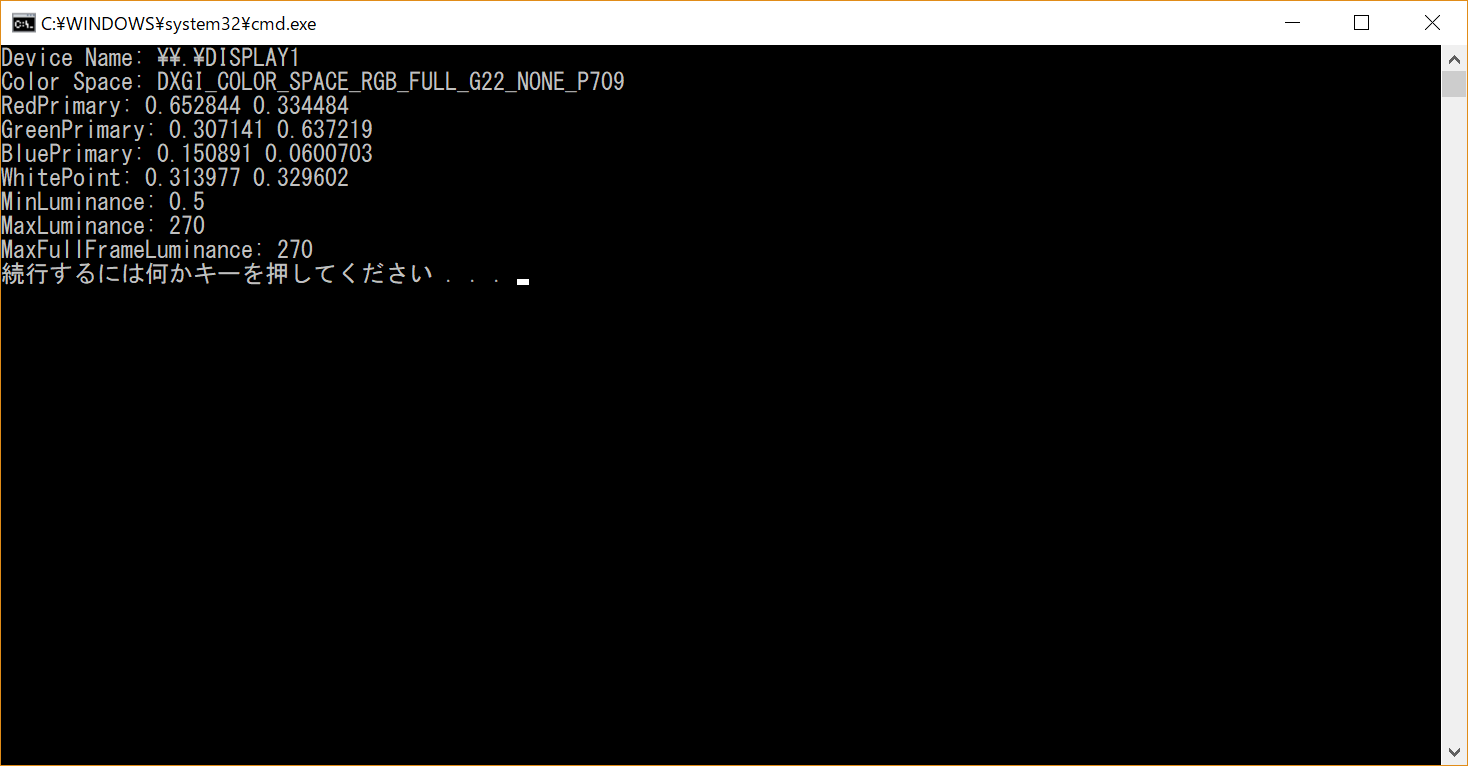
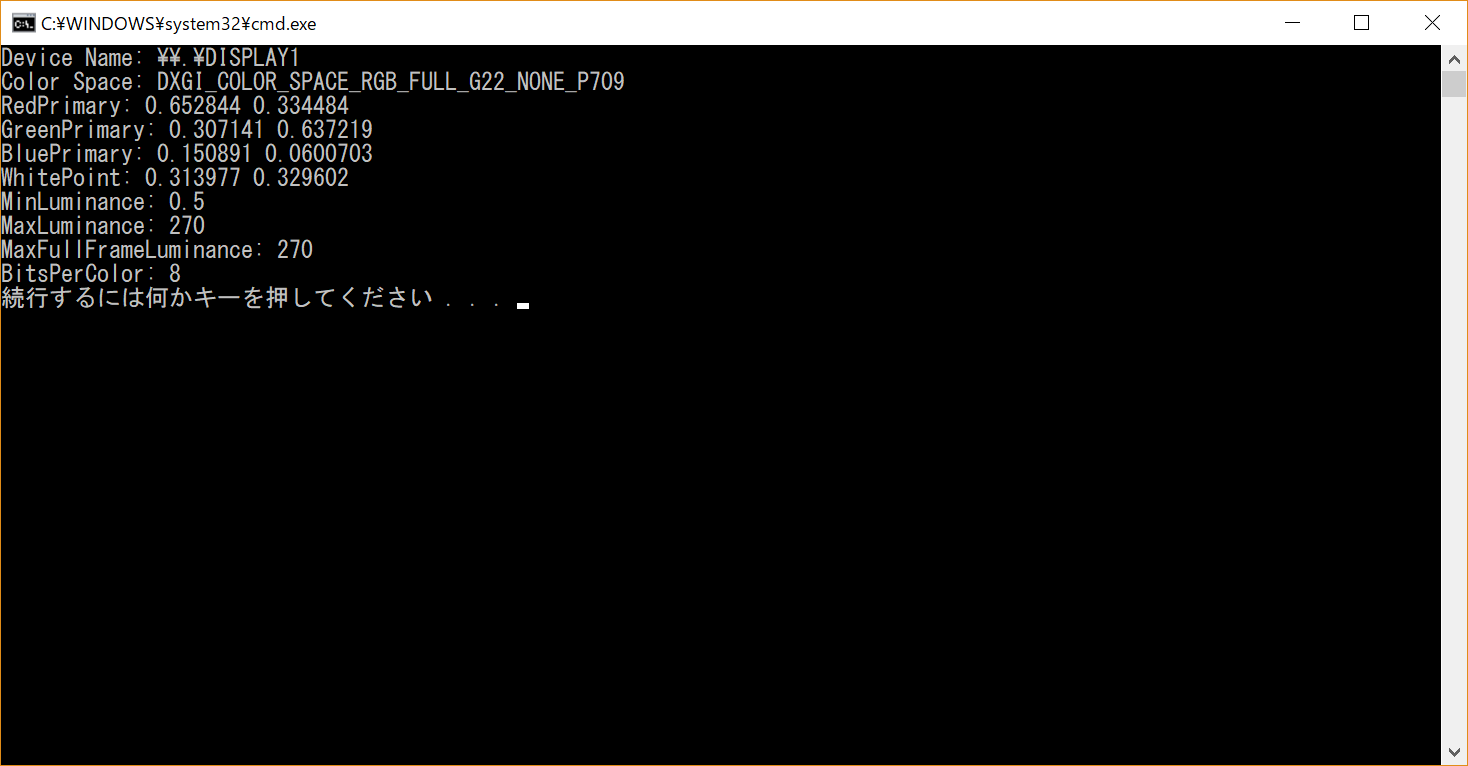
Add BitsPerColor

Changed region(s): [[0.0, 0.3303, 0.3065, 0.4204]]

diff --git a/D3DGetDisplaySpec/D3DGetDisplaySpec.cpp b/D3DGetDisplaySpec/D3DGetDisplaySpec.cpp
@@ -258,6 +258,9 @@ int main()
 	// MaxFullFrameLuminance
 	std::cout << "MaxFullFrameLuminance: " << outputDesc.MaxFullFrameLuminance << std::endl;
 
+	// BitsPerColor
+	std::cout << "BitsPerColor: " << outputDesc.BitsPerColor << std::endl;
+
     return 0;
 }
 
